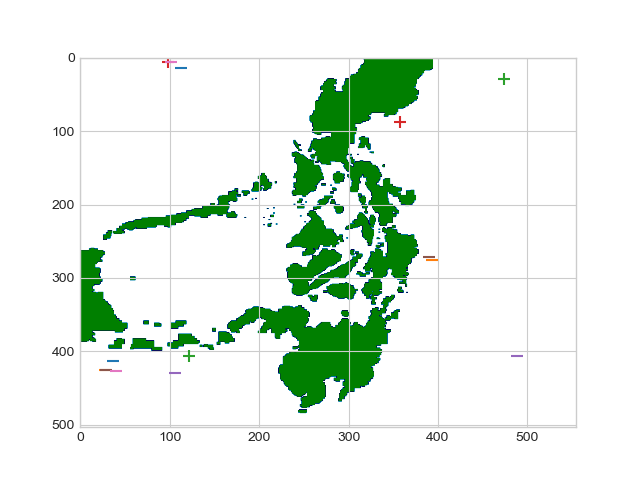
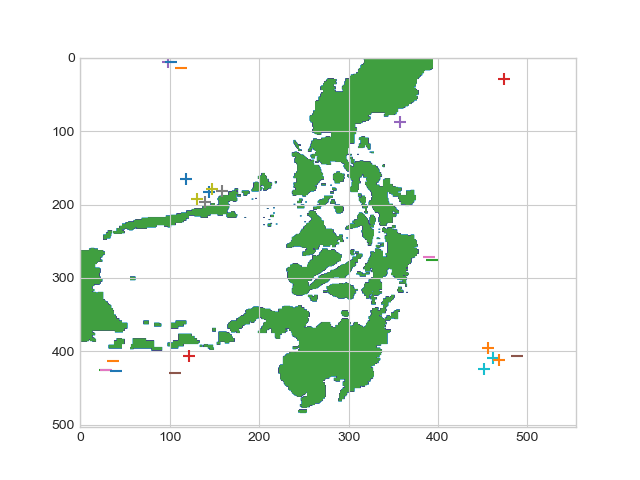
Dipole and readme updates

diff --git a/OceanFlow.py b/OceanFlow.py
@@ -97,8 +97,8 @@ def find_dipoles(u_3d, v_3d, mask, plot=False):
         corr1 = compute_correlations(point_vec_a, point_vec_b)
 
         cutoff = [abs(corr1) > .90,
-                  abs(col_index_1 - col_index_2) > 20,
-                  abs(row_index_1 - row_index_2) > 20]
+                  abs(col_index_1 - col_index_2) > 10,
+                  abs(row_index_1 - row_index_2) > 10]
 
         if np.all(cutoff):
             point_vec_c = v_3d[row_index_1, col_index_1, :]
@@ -110,7 +110,7 @@ def find_dipoles(u_3d, v_3d, mask, plot=False):
                 correlations_dict[key] = (corr1, corr2)
     if plot:
         fig, ax = plt.subplots()
-        ax.imshow(mask, alpha=1, cmap='ocean', aspect='auto')
+        ax.imshow(mask, alpha=.75, cmap='ocean', aspect='auto')
         for key, value in correlations_dict.items():
             x1, y1, x2, y2 = key
             corr_u, corr_v = value
@@ -119,6 +119,7 @@ def find_dipoles(u_3d, v_3d, mask, plot=False):
             marker = "+" if corr_u > 0 else "_"
             ax.scatter([x1, x2], [y1, y2], marker=marker, s=80)
         plt.savefig("OceanFlowImages/Dipoles.png", format='png', transparent=True)
+        plt.title("Positive and Negative Dipoles")
         plt.show()
 
     return correlations_dict

diff --git a/README.md b/README.md
@@ -4,7 +4,7 @@ The ocean is a wonderous place - it's mystery
 
 
 ### Step 1 - The Data
-The data measures ocean flow velocity in U (east-west) and V (north-south) directions in an approximately 1500 km x 1500 km grid in the Philippines.
+The data measures ocean flow velocity in U (east-west) and V (north-south) directions in an approximately 1500 km x 1500 km grid in the Philippines Archipelago.
 
 The data comes in the form of 200 csv files, each of which contains a 504 x 555 grid of velocity data, and one mask file that differentiates land and water.
 
@@ -22,10 +22,7 @@ It's hard to get a sense of what we are actually looking at here with this data.
 The [Indian Ocean Dipole]( https://en.wikipedia.org/wiki/Indian_Ocean_Dipole) is a temperature anomaly in which the eastern and western regions of the Indian Ocean are extremely negatively correlated, which has far-reaching climate impacts that can be felt as far as South America through its impact on El Nino.
 
 
-![Indian Ocean Dipole](https://en.wikipedia.org/wiki/Indian_Ocean_Dipole#/media/File:Sstanom_199711_krig.jpg)
-Source - Wikipedia
-
-Nothing this impactful exists in the data we have, but it is a good exercise to see if we can come up with areas that are positively or negatively correlated. The algorithm I implemented uses random sampling instead of calculating a (504x555)<sup>2</sup> correlation coefficients and is explained in detail in the docstring of the function titled find_dipoles in OceanFlow.py
+Nothing this impactful exists in the data we have, but it is a good exercise to see if we can come up with some long-range correlations in this data. The algorithm uses random sampling instead of calculating a (504x555)<sup>2</sup> correlation coefficients and is explained in detail in the docstring of the function titled find_dipoles in OceanFlow.py
 
 ![Indian Ocean Dipole](OceanFlowImages/Dipoles.png)
 
